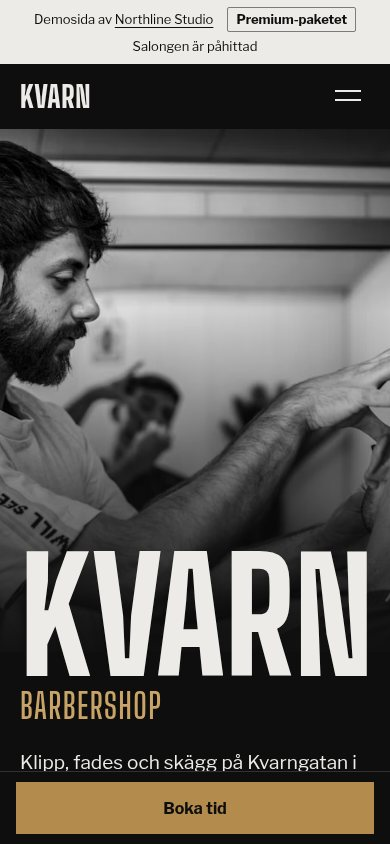
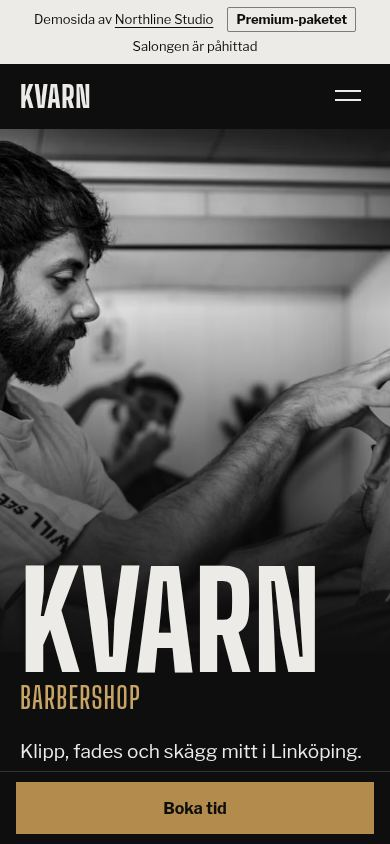
Startsida: nya skärmdumpar av Bas- och barber-demon utan gatuadresser
Claude-Session: https://claude.ai/code/session_01LdaxLP72ybHRKE178dbyFp

Changed region(s): [[0.0308, 0.6469, 0.9538, 0.9242]]

diff --git a/index.html b/index.html
@@ -194,8 +194,8 @@
             <a class="phone" id="phone-link" href="/demo/nagel/" target="_blank" rel="noopener" aria-label="Öppna demosidan för Opal Nails, Premium-paketet (öppnas i ny flik)">
               <span class="phone__screen">
                 <img class="ps is-active" src="assets/demo-opal-mobil.jpg" width="390" height="844" alt="" fetchpriority="high">
-                <img class="ps" src="assets/demo-ljung-mobil.jpg" width="390" height="844" alt="" loading="lazy">
-                <img class="ps" src="assets/demo-kvarn-mobil.jpg" width="390" height="844" alt="" loading="lazy">
+                <img class="ps" src="assets/demo-ljung-mobil.jpg?v=2" width="390" height="844" alt="" loading="lazy">
+                <img class="ps" src="assets/demo-kvarn-mobil.jpg?v=2" width="390" height="844" alt="" loading="lazy">
               </span>
             </a>
           </div>
@@ -250,7 +250,7 @@
           <figure class="compare__side compare__side--after">
             <div class="phone phone--static" aria-hidden="true">
               <span class="phone__screen">
-                <img src="assets/demo-ljung-mobil.jpg" width="390" height="844" alt="" loading="lazy">
+                <img src="assets/demo-ljung-mobil.jpg?v=2" width="390" height="844" alt="" loading="lazy">
               </span>
             </div>
             <figcaption><strong>Efter.</strong> Salong Ljung, vår Bas-demo: salongen i bild, adressen och en bokningsknapp direkt på första skärmen.</figcaption>
@@ -282,7 +282,7 @@
           </a>
           <a class="phone phone--side" href="/demo/barber/" target="_blank" rel="noopener" aria-label="Öppna demosidan för Kvarn Barbershop, Premium-paketet (öppnas i ny flik)">
             <span class="phone__screen">
-              <img src="assets/demo-kvarn-mobil.jpg" width="390" height="844" alt="" loading="lazy">
+              <img src="assets/demo-kvarn-mobil.jpg?v=2" width="390" height="844" alt="" loading="lazy">
             </span>
           </a>
         </div>
